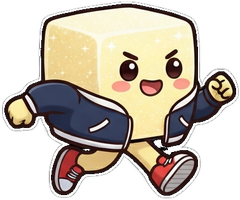
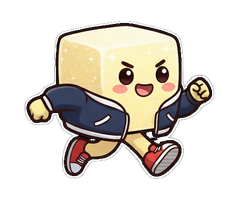
fix: shrink trail runner to height 160 for proportional size; fix fill_to_canvas to respect --height

diff --git a/tools/split_static.py b/tools/split_static.py
@@ -169,29 +169,31 @@ def pad_to_canvas(img, canvas_w, canvas_h):
     return canvas
 
 
-def fill_to_canvas(img, canvas_w, canvas_h):
-    """Scale to canvas HEIGHT, then centre-crop or pad to canvas WIDTH.
+def fill_to_canvas(img, canvas_w, canvas_h, target_height=None):
+    """Scale to target_height (or canvas HEIGHT if unset), then centre-crop or pad to canvas WIDTH.
 
     Good for wide characters (e.g. jump rope arc) where fit-mode would
     shrink the character too small.  Wide elements that extend past the
     canvas edges will be cropped symmetrically.
     """
+    fill_h = target_height if target_height and target_height < canvas_h else canvas_h
     w, h = img.size
-    if h != canvas_h:
-        ratio = canvas_h / h
+    if h != fill_h:
+        ratio = fill_h / h
         new_w = int(round(w * ratio))
-        img = img.resize((new_w, canvas_h), Image.LANCZOS)
+        img = img.resize((new_w, fill_h), Image.LANCZOS)
     w, h = img.size
     canvas = Image.new("RGBA", (canvas_w, canvas_h), (0, 0, 0, 0))
+    y_off = (canvas_h - h) // 2  # centre vertically when fill_h < canvas_h
     if w >= canvas_w:
-        # wider than canvas — centre-crop
+        # wider than canvas — centre-crop horizontally
         x = (w - canvas_w) // 2
-        cropped = img.crop((x, 0, x + canvas_w, canvas_h))
-        canvas.paste(cropped, (0, 0))
+        cropped = img.crop((x, 0, x + canvas_w, h))
+        canvas.paste(cropped, (0, y_off))
     else:
-        # narrower than canvas — centre-pad
+        # narrower than canvas — centre-pad horizontally
         x = (canvas_w - w) // 2
-        canvas.paste(img, (x, 0))
+        canvas.paste(img, (x, y_off))
     return canvas
 
 
@@ -310,8 +312,8 @@ def main():
     if args.canvas:
         cw, ch = args.canvas
         if args.canvas_fill:
-            normal = fill_to_canvas(normal, cw, ch)
-            shiny  = fill_to_canvas(shiny,  cw, ch)
+            normal = fill_to_canvas(normal, cw, ch, args.height)
+            shiny  = fill_to_canvas(shiny,  cw, ch, args.height)
             print(f"Canvas : {cw}\u00d7{ch} (fill-to-height + centre-crop/pad)")
         else:
             normal = pad_to_canvas(normal, cw, ch)